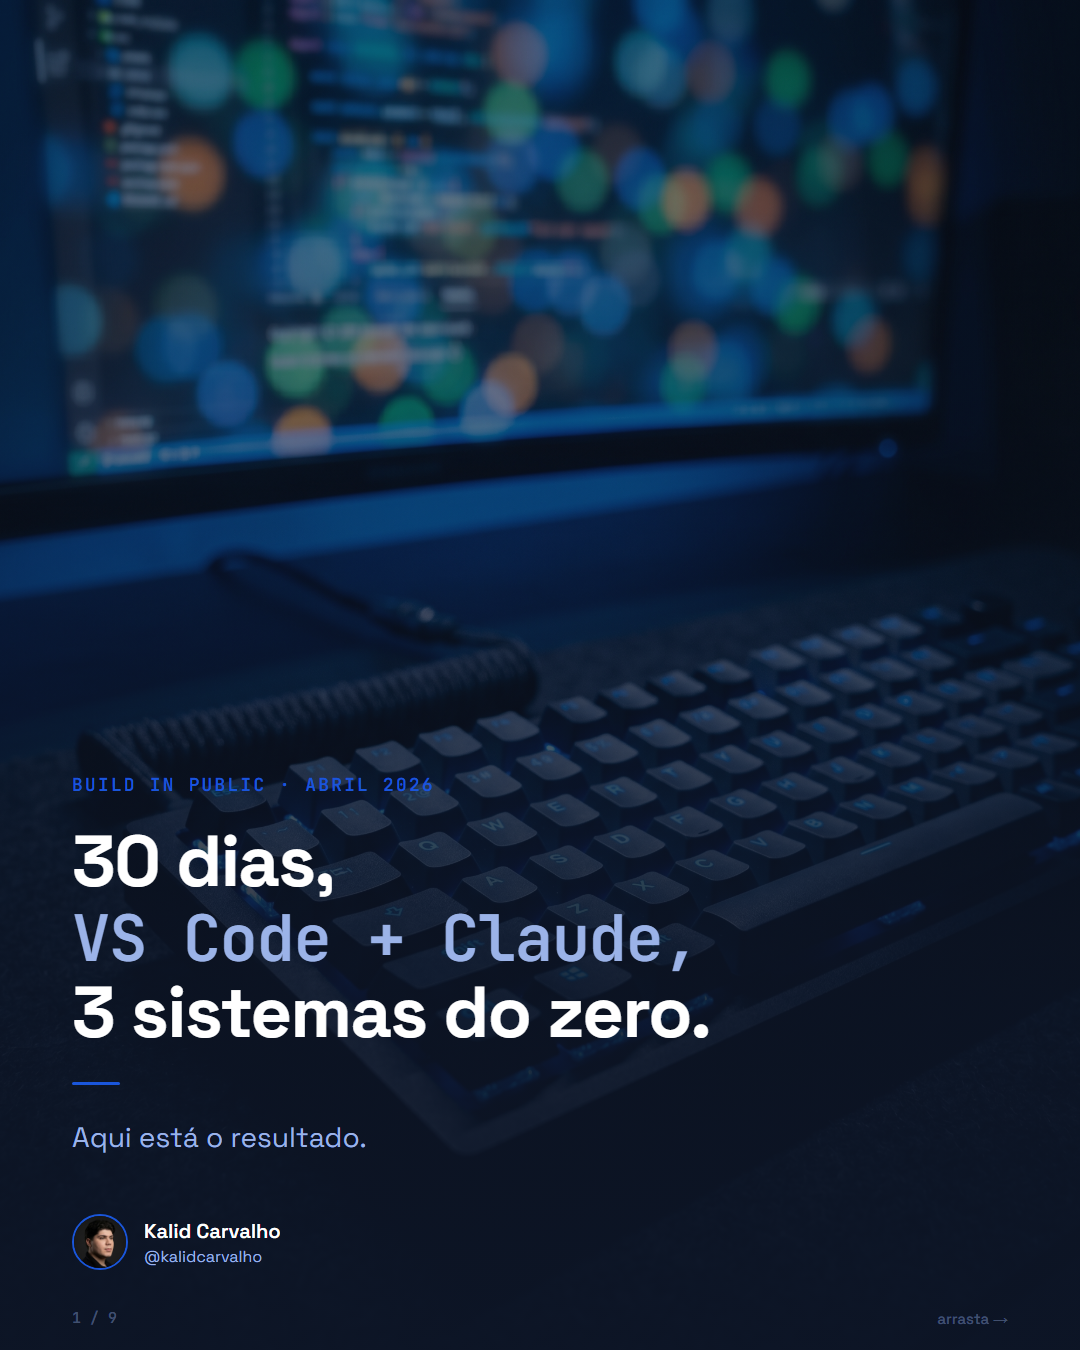
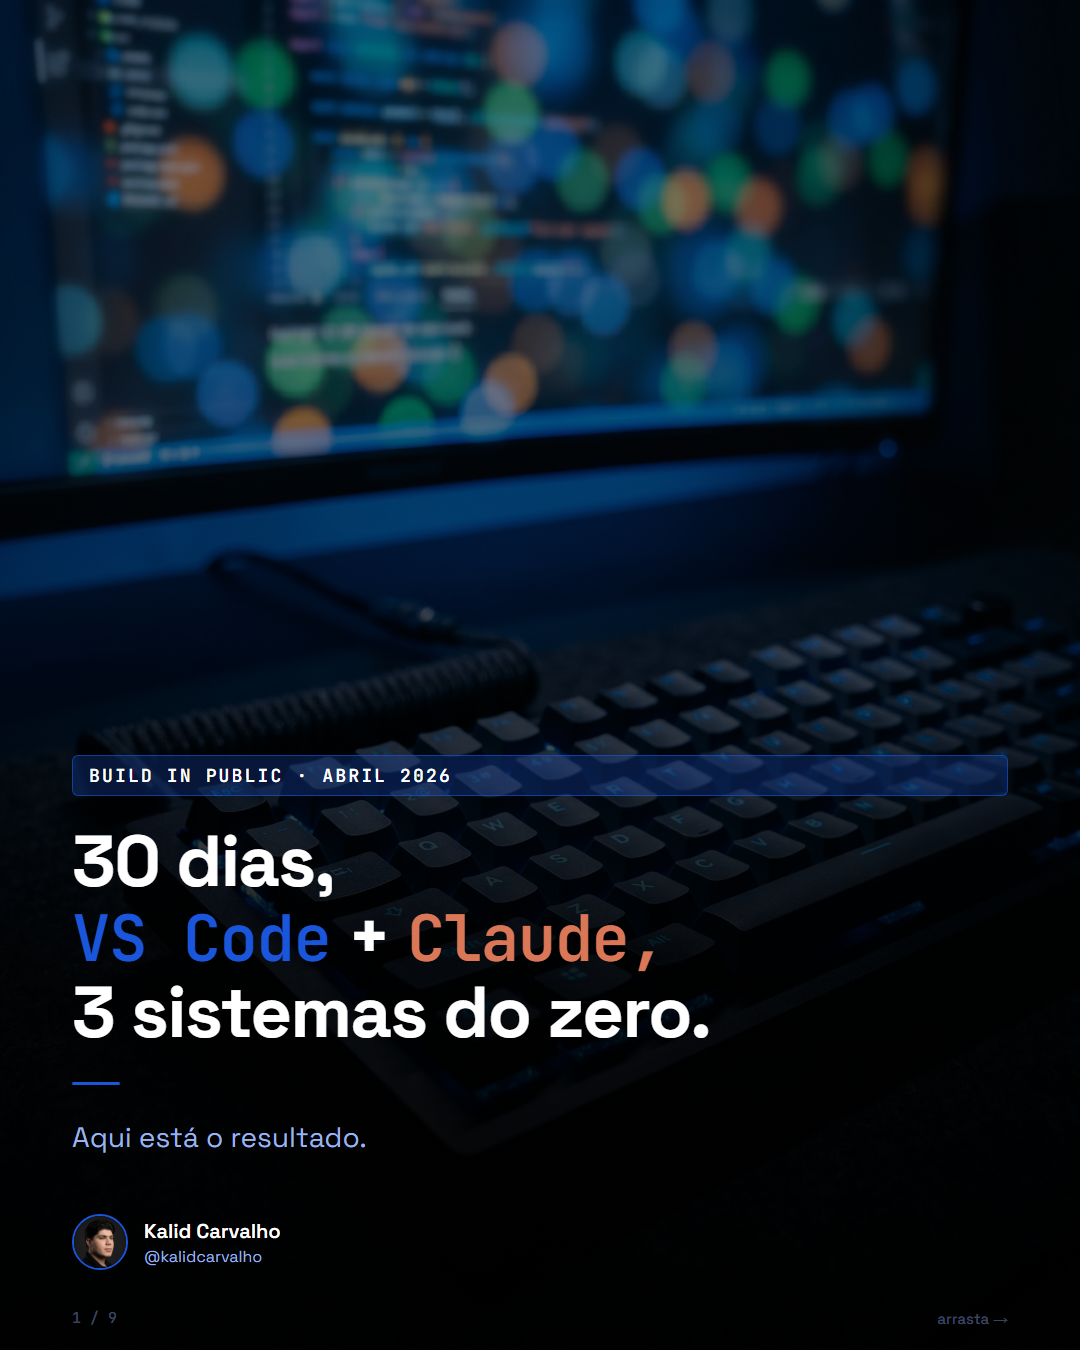
auto-sync: 2026-04-28 06:44

diff --git a/conteudo/kalidcarvalho/carrosseis/2026-04-28/abril-builds/instagram/slide-01.html b/conteudo/kalidcarvalho/carrosseis/2026-04-28/abril-builds/instagram/slide-01.html
@@ -19,10 +19,10 @@ body { width: 1080px; height: 1350px; overflow: hidden; position: relative; font
   position: absolute; inset: 0;
   background: linear-gradient(
     to bottom,
-    rgba(13,21,38,0.45) 0%,
-    rgba(13,21,38,0.55) 40%,
-    rgba(13,21,38,0.85) 70%,
-    rgba(13,21,38,0.97) 100%
+    rgba(0,0,0,0.35) 0%,
+    rgba(0,0,0,0.50) 40%,
+    rgba(0,0,0,0.88) 70%,
+    rgba(0,0,0,0.98) 100%
   );
 }
 
@@ -36,10 +36,15 @@ body { width: 1080px; height: 1350px; overflow: hidden; position: relative; font
 .tag {
   font-family: 'JetBrains Mono', monospace;
   font-size: 18px; font-weight: 600;
-  color: #1A56DB;
+  color: #FFFFFF;
   letter-spacing: 0.12em;
   text-transform: uppercase;
   margin-bottom: 28px;
+  background: rgba(26,86,219,0.25);
+  border: 1px solid rgba(26,86,219,0.6);
+  border-radius: 6px;
+  padding: 8px 16px;
+  display: inline-block;
 }
 
 .title {
@@ -50,10 +55,16 @@ body { width: 1080px; height: 1350px; overflow: hidden; position: relative; font
   margin-bottom: 32px;
 }
 
-.title span {
+.title .vscode {
   font-family: 'JetBrains Mono', monospace;
   font-size: 64px;
-  color: #9BB3E8;
+  color: #1A56DB;
+  font-weight: 600;
+}
+.title .claude {
+  font-family: 'JetBrains Mono', monospace;
+  font-size: 64px;
+  color: #D97757;
   font-weight: 600;
 }
 
@@ -103,7 +114,7 @@ body { width: 1080px; height: 1350px; overflow: hidden; position: relative; font
 <div class="overlay"></div>
 <div class="content">
   <div class="tag">Build in Public · Abril 2026</div>
-  <div class="title">30 dias,<br><span>VS Code + Claude,</span><br>3 sistemas do zero.</div>
+  <div class="title">30 dias,<br><span class="vscode">VS Code</span> + <span class="claude">Claude,</span><br>3 sistemas do zero.</div>
   <div class="divider"></div>
   <div class="subtitle">Aqui está o resultado.</div>
   <div class="author">
